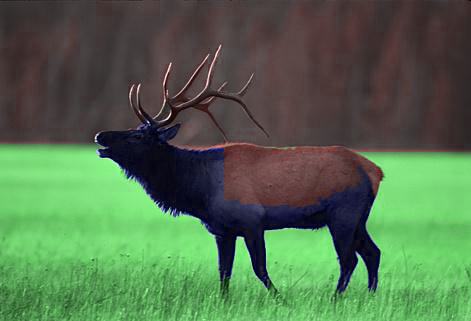
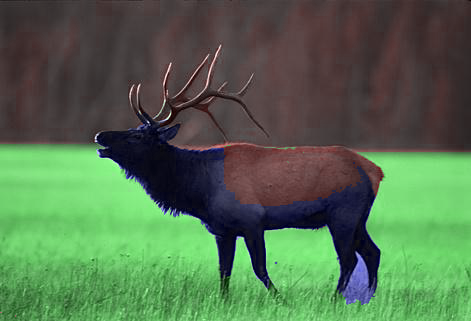
better params for 1

diff --git a/übung4/asgn4/skeleton/problem2.py b/übung4/asgn4/skeleton/problem2.py
@@ -317,25 +317,25 @@ def problem2():
     valid_loader = create_loader(valid_dataset, batch_size=1, shuffle=False, num_workers=1)
 
     # show some images for the training and validation set
-    # show_dataset_examples(train_loader, grid_height=2, grid_width=3, title='training examples')
-    # show_dataset_examples(valid_loader, grid_height=2, grid_width=3, title='validation examples')
+    show_dataset_examples(train_loader, grid_height=2, grid_width=3, title='training examples')
+    show_dataset_examples(valid_loader, grid_height=2, grid_width=3, title='validation examples')
 
     # Load Deeplab network
     model = models.segmentation.deeplabv3_resnet101(pretrained=True, num_classes=21)
 
     # Apply deeplab. Switch to training loader if you want more variety.
-    # show_inference_examples(valid_loader, model, grid_height=2, grid_width=3, title='inference examples')
+    show_inference_examples(valid_loader, model, grid_height=2, grid_width=3, title='inference examples')
 
     # attack1: convert cat to dog
-    # cat_example = find_unique_example(valid_loader, unique_foreground_label=8)
-    # show_unique_example(cat_example, model=model)
-    # show_attack(cat_example, model, src_label=8, target_label=12, learning_rate=1.0, iterations=10)
+    cat_example = find_unique_example(valid_loader, unique_foreground_label=8)
+    show_unique_example(cat_example, model=model)
+    show_attack(cat_example, model, src_label=8, target_label=12, learning_rate=1.0, iterations=10)
 
     # feel free to try other examples..
     # attack2: convert dog to cat
     dog_example = find_unique_example(valid_loader, unique_foreground_label=12)
     show_unique_example(dog_example, model=model)
-    show_attack(dog_example, model, src_label=12, target_label=8, learning_rate=1.0, iterations=5)
+    show_attack(dog_example, model, src_label=12, target_label=8, learning_rate=1.0, iterations=10)
 
 
 if __name__ == '__main__':

diff --git a/übung4/asgn4/skeleton/problem1.py b/übung4/asgn4/skeleton/problem1.py
@@ -252,19 +252,20 @@ def iterated_graphcuts(im, label0, pairwise, gmm_components, num_segments):
     old_label = label0 + 11
     # you should call expand_alpha eventually... no fuck off ;P
     c = 0
+    # stop when almost no labels change... results are this way good enough and it doesn`t take forever
     while (np.fabs(np.sum(old_label - label)) >= 10.0):
         old_label = label
         c += 1
         for alpha in range(num_segments):
             label = expand_alpha(alpha, im, label, pairwise, gmm_components, num_segments)
-    # image saving used:
-    #     if c % 4 == 1:
-    #         print("intermediate")
-    #         plt.imsave(os.path.join(os.getcwd(), 'bin', 'intermediate{}.png'.format(c)), label2color(im, label))
-    #     print("iteration: ", c)
-    #     print(np.sum(old_label - label))
-    # print("final")
-    # plt.imsave(os.path.join(os.getcwd(), 'bin', 'final.png'), label2color(im, label))
+        # image saving used:
+        if c % 4 == 1:
+            print("intermediate")
+            plt.imsave(os.path.join(os.getcwd(), 'bin', 'intermediate{}.png'.format(c)), label2color(im, label))
+        print("iteration: ", c)
+        print(np.sum(old_label - label))
+    print("final")
+    plt.imsave(os.path.join(os.getcwd(), 'bin', 'final.png'), label2color(im, label))
 
     assert (label.ndim == 2 and np.equal(label.shape, label0.shape[0:2]).all())
     assert (label.dtype in [np.int32, np.int64])
@@ -274,7 +275,7 @@ def iterated_graphcuts(im, label0, pairwise, gmm_components, num_segments):
 def problem1():
     # Find some good settings: Keep it simple!
     num_segments = 3
-    gmm_components = 20  # Find a good parameter
+    gmm_components = 5  # Find a good parameter
     lmbda = 100 # Find a good parameter
 
     # Read input image
